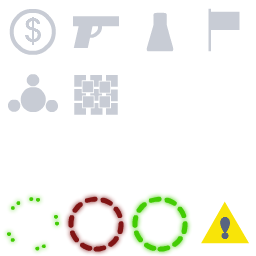
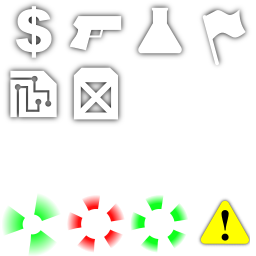
wip

diff --git a/trunk/engine/uirendering.cpp b/trunk/engine/uirendering.cpp
@@ -111,15 +111,21 @@ void UIRenderer::SetAtomCoordFromPixel( int x0, int y0, int x1, int y1, int w, i
 
 RenderAtom UIRenderer::CalcDecoAtom( int id, bool enabled )
 {
-	GLASSERT( id >= 0 && id < 32 );
+	GLASSERT( id >= 0 && id <= 32 );
 	Texture* texture = TextureManager::Instance()->GetTexture( "iconDeco" );
-	int y = id / 8;
-	int x = id - y*8;
-	float tx0 = (float)x / 8.f;
-	float ty0 = (float)y / 4.f;
-	float tx1 = tx0 + 1.f/8.f;
-	float ty1 = ty0 + 1.f/4.f;
+	float tx0 = 0;
+	float ty0 = 0;
+	float tx1 = 0;
+	float ty1 = 0;
 
+	if ( id == DECO_NONE ) {
+		int y = id / 8;
+		int x = id - y*8;
+		tx0 = (float)x / 8.f;
+		ty0 = (float)y / 4.f;
+		tx1 = tx0 + 1.f/8.f;
+		ty1 = ty0 + 1.f/4.f;
+	}
 	return RenderAtom( (const void*)(enabled ? RENDERSTATE_UI_DECO : RENDERSTATE_UI_DECO_DISABLED), (const void*)texture, tx0, ty0, tx1, ty1 );
 }
 

diff --git a/trunk/engine/uirendering.h b/trunk/engine/uirendering.h
@@ -84,29 +84,30 @@ enum {
 	DECO_BASE			= 9,
 	DECO_RESEARCH		= 10,
 	DECO_SETTINGS		= 11,
-	DECO_OKAY			= 12,
+	DECO_TURN_COMPLETE	= 12,
 	DECO_ALIEN			= 13,
 	DECO_ARMOR			= 14,
-	DECO_BOOM			= 15,
+	DECO_OKAY_CHECK		= 15,
 
-	DECO_METAL			= 16,
-	DECO_TECH			= 17,
-	DECO_FUEL			= 18,
+	DECO_CORE			= 16,
+	DECO_BUTTON_PREV	= 17,
+	DECO_BUTTON_NEXT	= 18,
 	DECO_ORBIT			= 19,
 	DECO_HELP			= 20,
 	DECO_LAUNCH			= 21,
 	DECO_END_TURN		= 22,
 	DECO_HUMAN			= 23,
 
-	DECO_PREV			= 24,
-	DECO_NEXT			= 25,
+	DECO_UNIT_PREV		= 24,
+	DECO_UNIT_NEXT		= 25,
 	DECO_ROTATE_CCW		= 26,
 	DECO_ROTATE_CW		= 27,
 	DECO_SHIELD			= 28,
 	DECO_AUDIO			= 29,
 	DECO_MUTE			= 30,
+	DECO_ALIEN_RIFLE	= 31,
 
-	DECO_NONE			= 31,
+	DECO_NONE			= 32,
 
 	CROP_CIRCLES_X		= 2,
 	CROP_CIRCLES_Y		= 2,

diff --git a/trunk/game/item.h b/trunk/game/item.h
@@ -95,7 +95,7 @@ public:
 	virtual const ClipItemDef* IsClip() const  { return 0; }
 	virtual const ArmorItemDef* IsArmor() const { return 0; }
 	bool IsAlien() const { return isAlien; }
-	bool Hide() const    { return deco == 31; /*DECO_NONE;*/ }
+	bool Hide() const    { return deco == 32; /*DECO_NONE;*/ }
 	
 	// Most items are 1 thing: a gun, armor, etc. But clips are formed of collections.
 	// It may take 10 rounds to form a clip.
